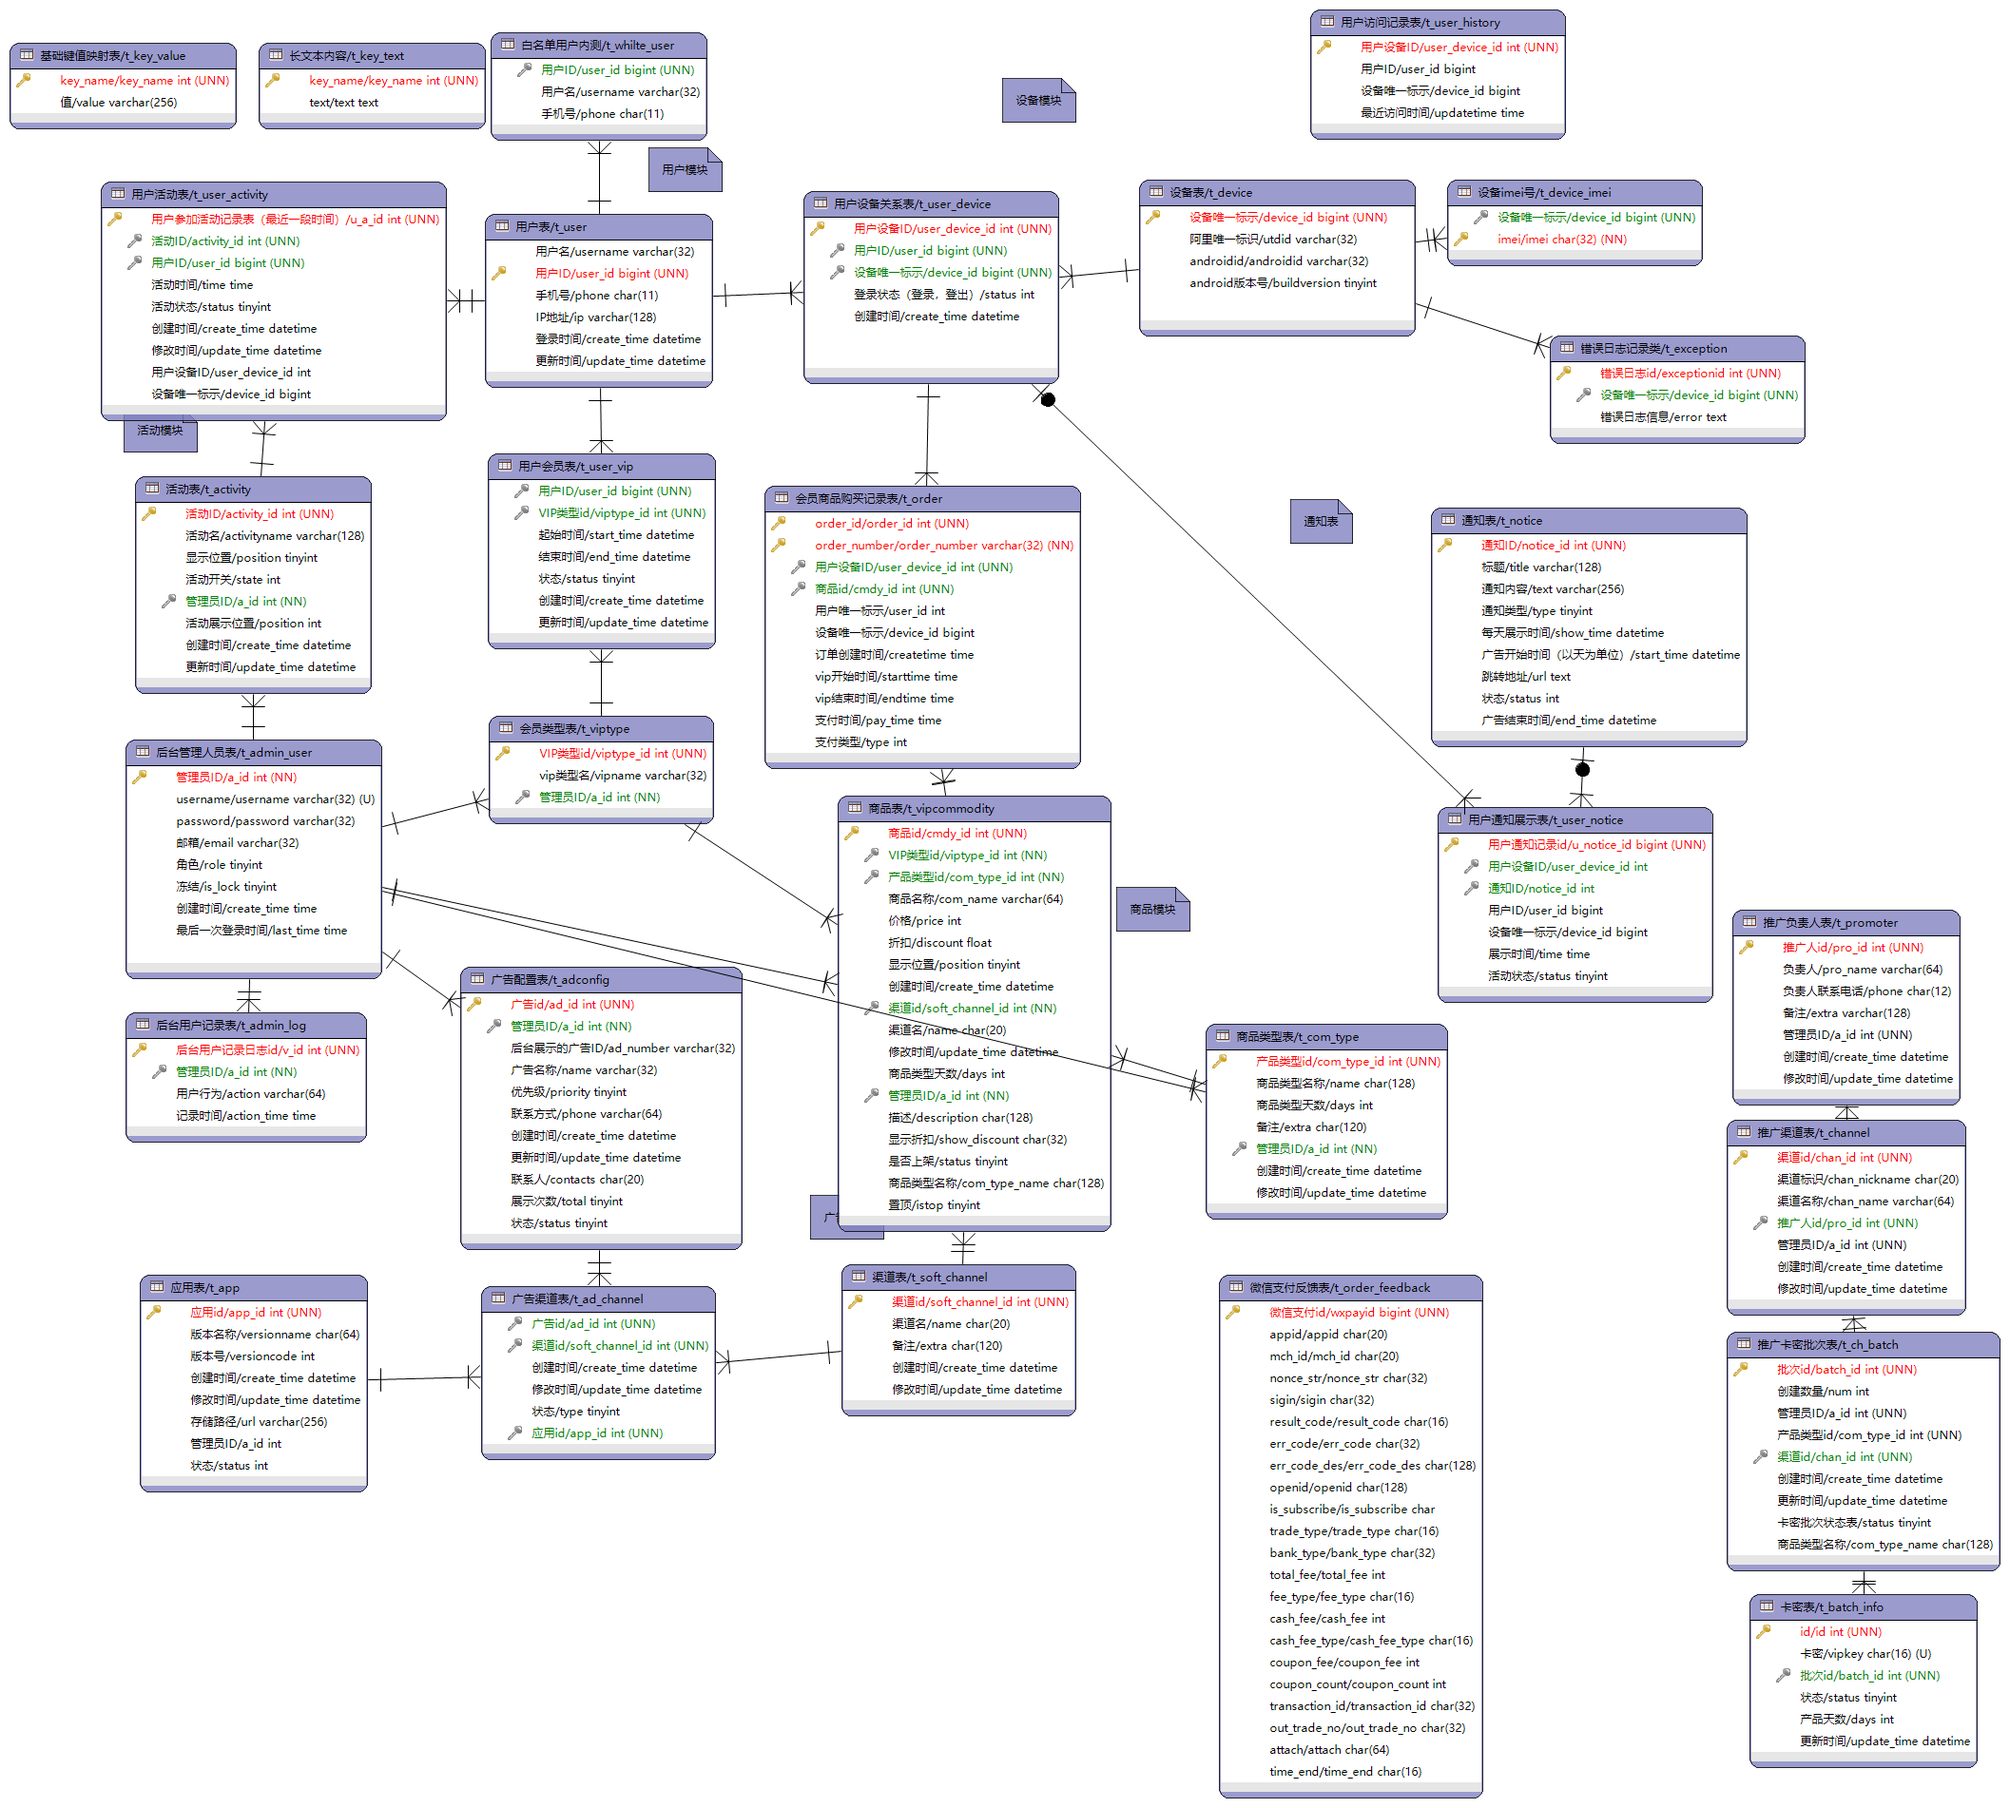
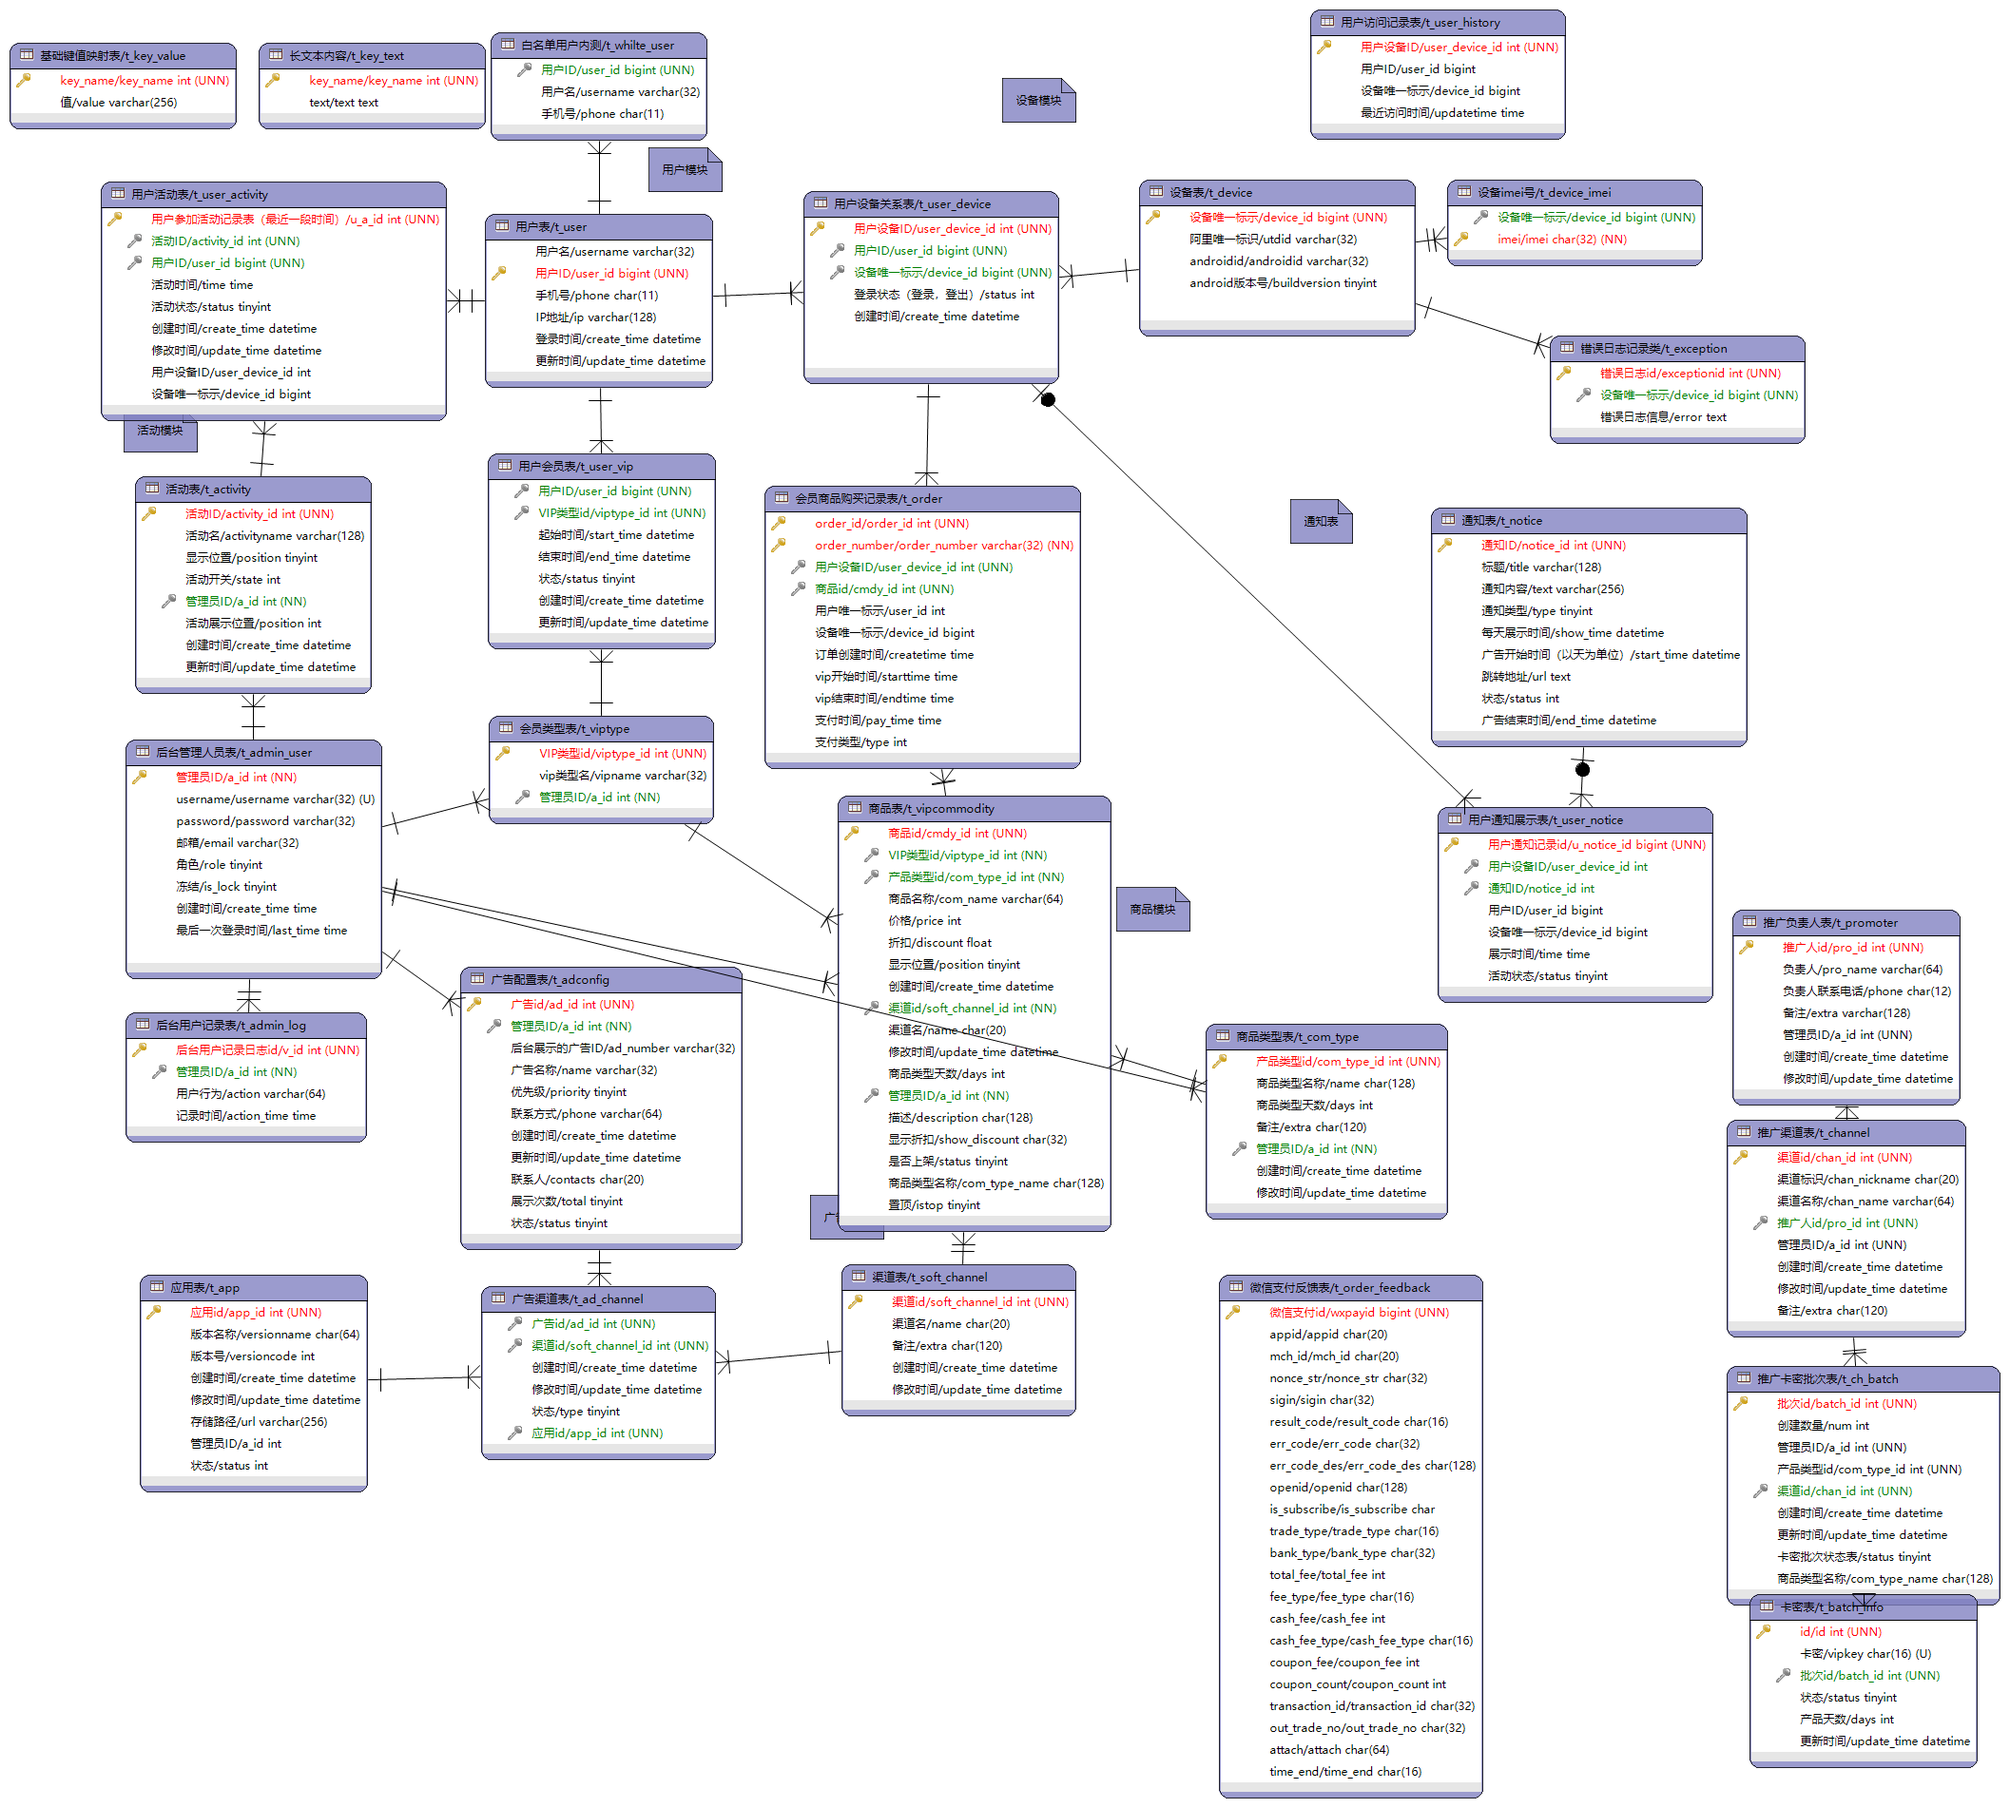
update t_channel table

Changed region(s): [[0.843, 0.7135, 0.9991, 0.8996]]

diff --git a/smartweb/src/main/java/com/rpa/web/pojo/ChannelPO.java b/smartweb/src/main/java/com/rpa/web/pojo/ChannelPO.java
@@ -22,6 +22,8 @@ public class ChannelPO implements Serializable {
 
     private Date updateTime;
 
+    private String extra;
+
     private static final long serialVersionUID = 1L;
 
     public Integer getChanId() {
@@ -80,6 +82,14 @@ public class ChannelPO implements Serializable {
         this.updateTime = updateTime;
     }
 
+    public String getExtra() {
+        return extra;
+    }
+
+    public void setExtra(String extra) {
+        this.extra = extra;
+    }
+
     @Override
     public boolean equals(Object that) {
         if (this == that) {
@@ -98,7 +108,8 @@ public class ChannelPO implements Serializable {
             && (this.getProId() == null ? other.getProId() == null : this.getProId().equals(other.getProId()))
             && (this.getaId() == null ? other.getaId() == null : this.getaId().equals(other.getaId()))
             && (this.getCreateTime() == null ? other.getCreateTime() == null : this.getCreateTime().equals(other.getCreateTime()))
-            && (this.getUpdateTime() == null ? other.getUpdateTime() == null : this.getUpdateTime().equals(other.getUpdateTime()));
+            && (this.getUpdateTime() == null ? other.getUpdateTime() == null : this.getUpdateTime().equals(other.getUpdateTime()))
+            && (this.getExtra() == null ? other.getExtra() == null : this.getExtra().equals(other.getExtra()));
     }
 
     @Override
@@ -112,6 +123,7 @@ public class ChannelPO implements Serializable {
         result = prime * result + ((getaId() == null) ? 0 : getaId().hashCode());
         result = prime * result + ((getCreateTime() == null) ? 0 : getCreateTime().hashCode());
         result = prime * result + ((getUpdateTime() == null) ? 0 : getUpdateTime().hashCode());
+        result = prime * result + ((getExtra() == null) ? 0 : getExtra().hashCode());
         return result;
     }
 
@@ -128,6 +140,7 @@ public class ChannelPO implements Serializable {
         sb.append(", aId=").append(aId);
         sb.append(", createTime=").append(createTime);
         sb.append(", updateTime=").append(updateTime);
+        sb.append(", extra=").append(extra);
         sb.append(", serialVersionUID=").append(serialVersionUID);
         sb.append("]");
         return sb.toString();
